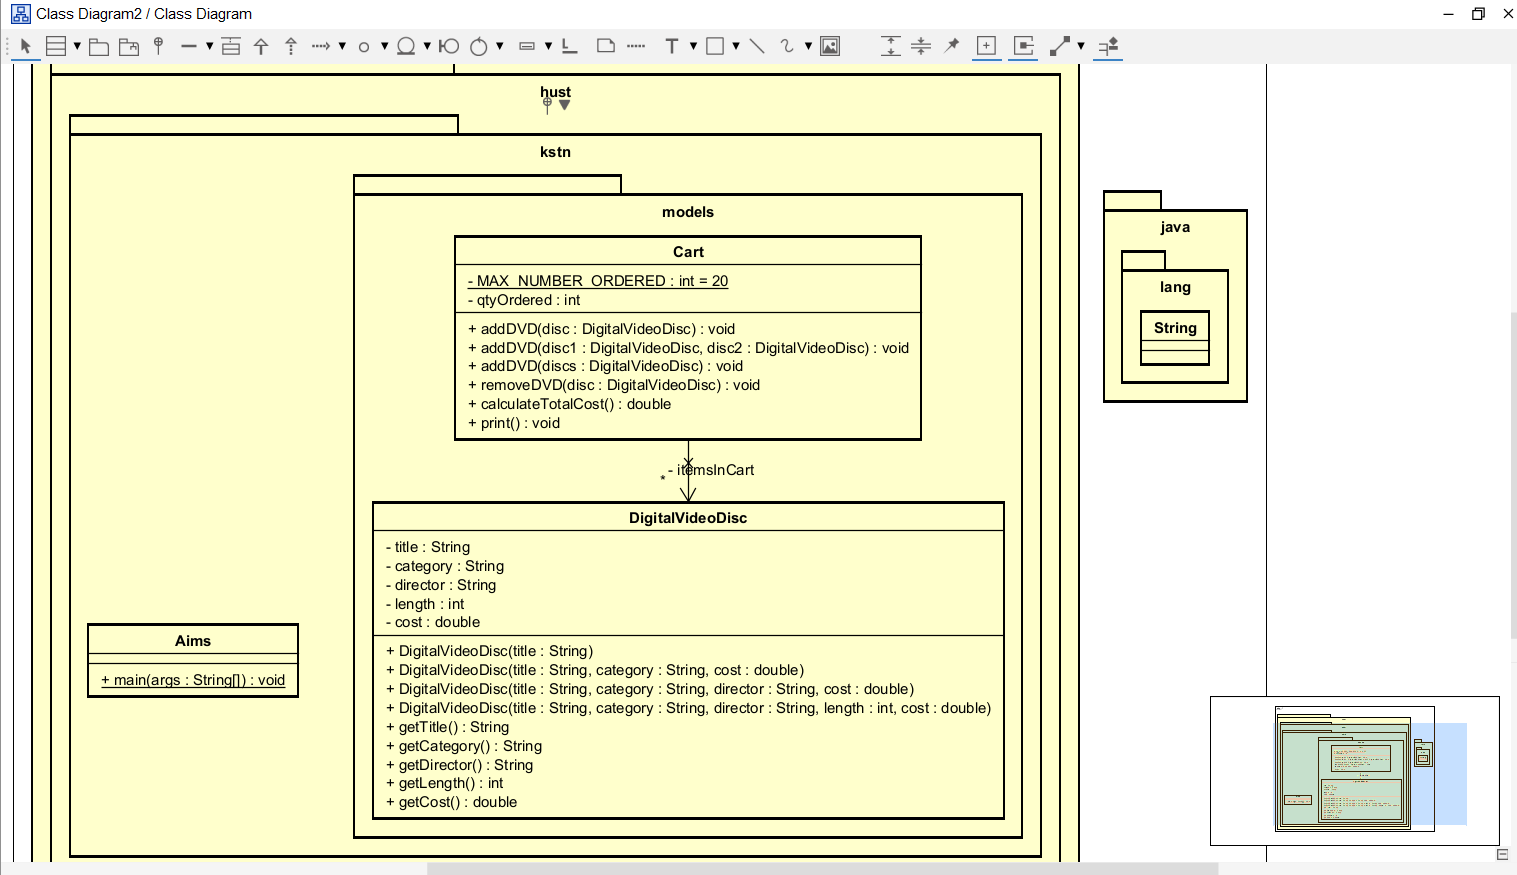
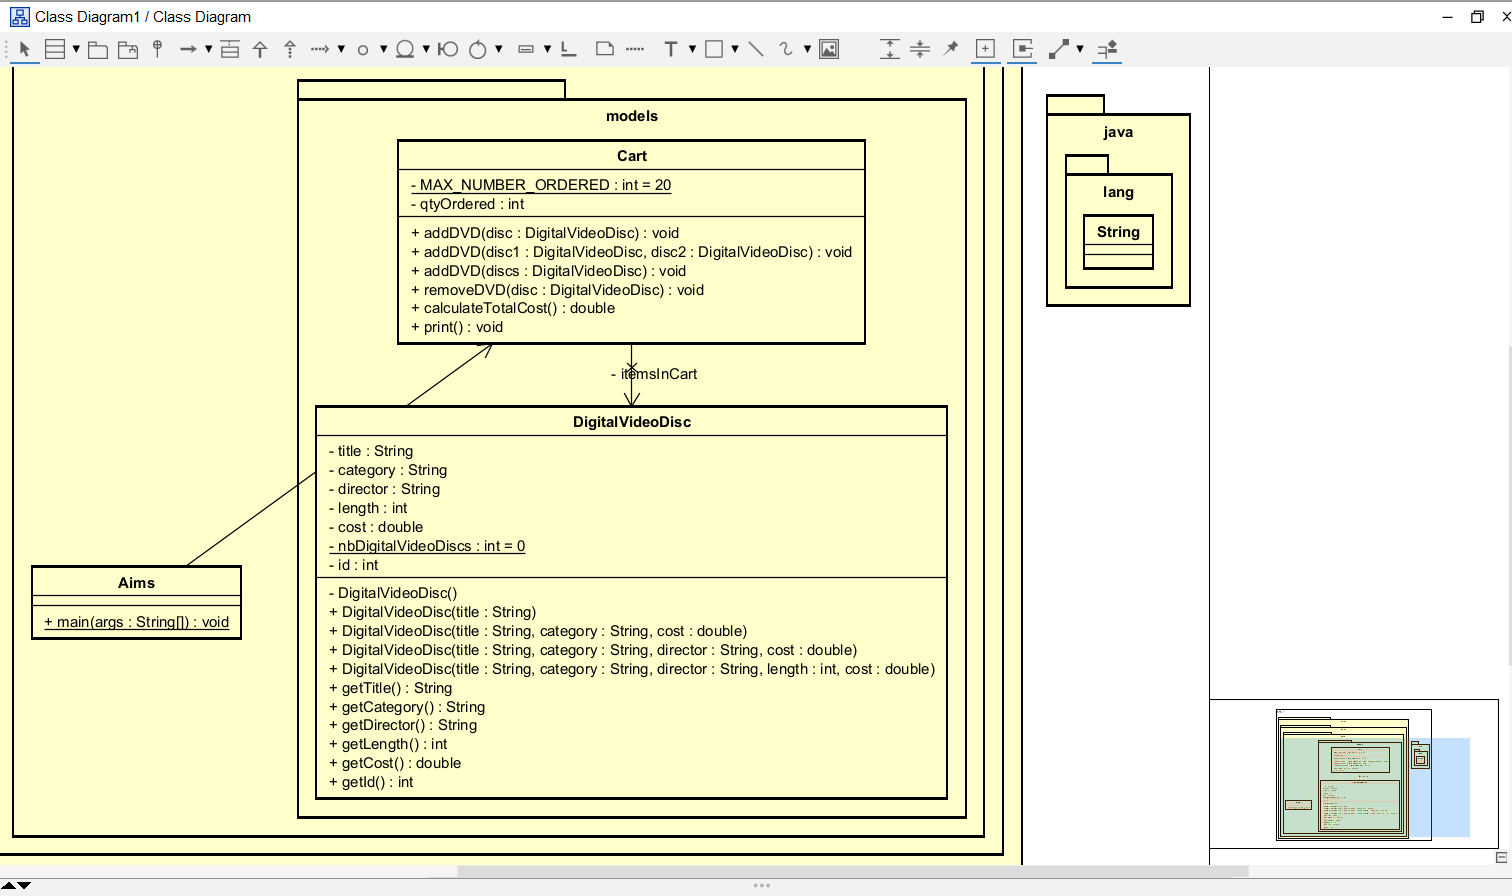
classifer member and instance member

Changed region(s): [[0.0, 0.0, 1.0, 1.0], [0.9947, 0.3394, 1.0, 0.7406], [0.9325, 0.0, 1.0, 0.0309]]

diff --git a/AimsProject/src/com/hust/kstn/models/DigitalVideoDisc.java b/AimsProject/src/com/hust/kstn/models/DigitalVideoDisc.java
@@ -8,14 +8,21 @@ public class DigitalVideoDisc
     private String director;
     private int length;
     private double cost;
+    private static int nbDigitalVideoDiscs = 0;
+    private int id;
 
+    private DigitalVideoDisc() {
+        this.id = ++nbDigitalVideoDiscs;
+    }
     public DigitalVideoDisc(String title)
     {
+        this();
         this.title = title;
     }
 
     public DigitalVideoDisc(String title, String category, double cost)
     {
+        this();
         this.title = title;
         this.category = category;
         this.cost = cost;
@@ -23,6 +30,7 @@ public class DigitalVideoDisc
 
     public DigitalVideoDisc(String title, String category, String director, double cost)
     {
+        this();
         this.title = title;
         this.category = category;
         this.director = director;
@@ -31,6 +39,7 @@ public class DigitalVideoDisc
 
     public DigitalVideoDisc(String title, String category, String director, int length, double cost)
     {
+        this();
         this.title = title;
         this.category = category;
         this.director = director;
@@ -55,6 +64,10 @@ public class DigitalVideoDisc
 
     public double getCost() {
         return cost;
+    }
+
+    public int getId() {
+        return id;
     }
 
 }

diff --git a/AimsProject/src/com/hust/kstn/models/Cart.java b/AimsProject/src/com/hust/kstn/models/Cart.java
@@ -85,7 +85,7 @@ public class Cart {
 
         for (int i = 0; i < qtyOrdered; i++) {
             DigitalVideoDisc item = itemsInCart[i];
-            System.out.printf("[Title]: %s, [Cost]: %.2f%n", item.getTitle(), item.getCost());
+            System.out.println("[ID]: " + item.getId() + ", [Title]: " + item.getTitle() + ", [Cost]: " + item.getCost());
         }
     }
 }
